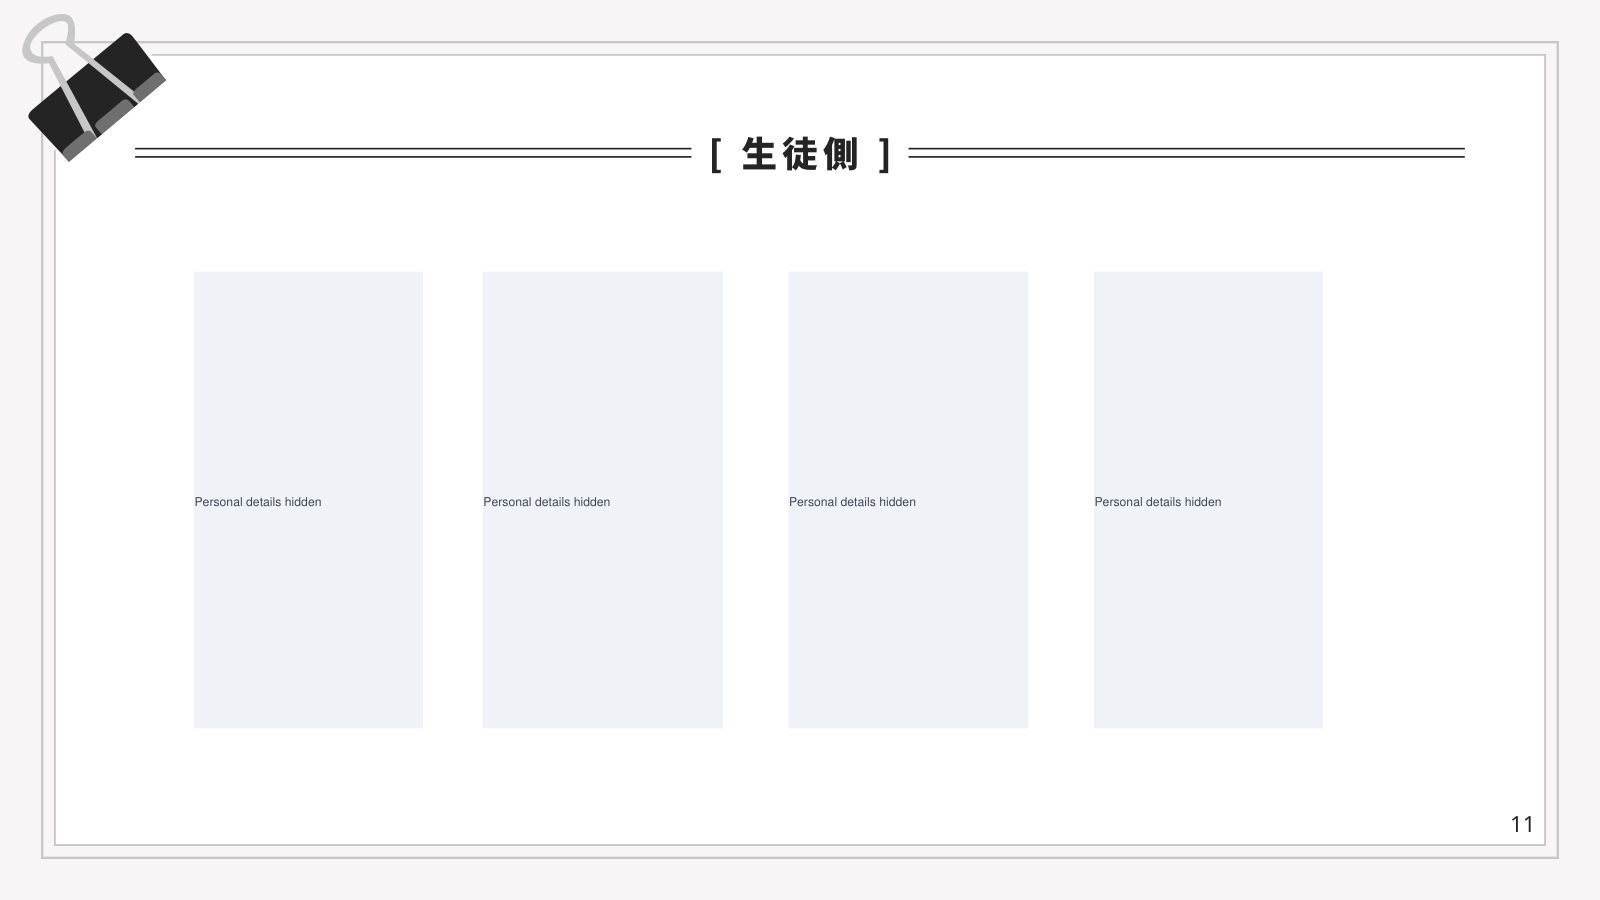
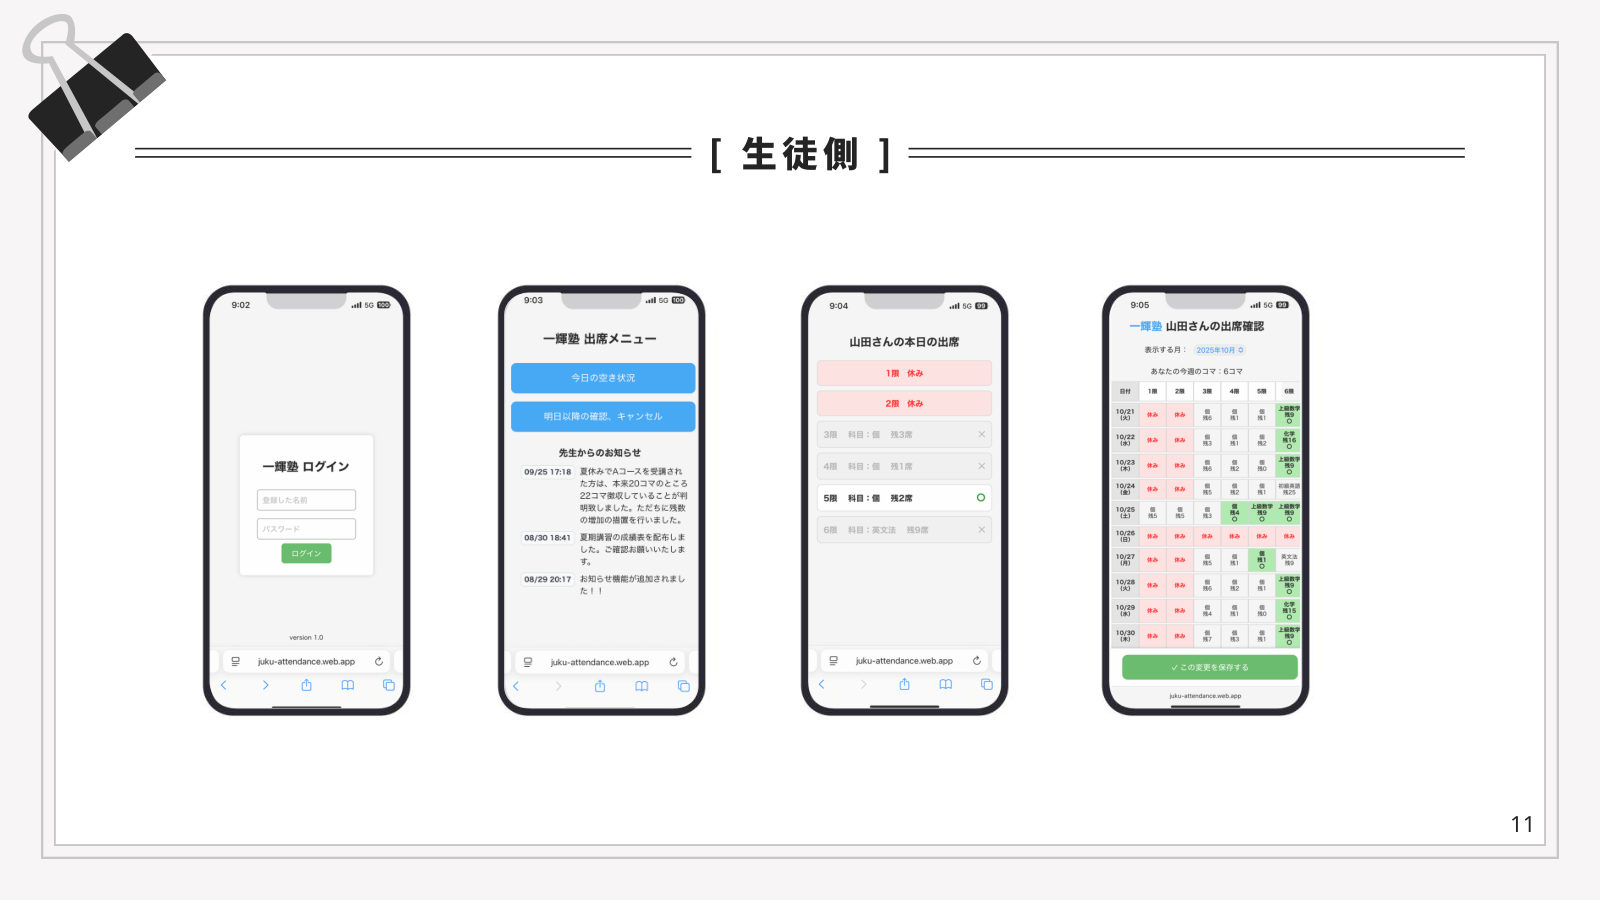
Restore unredacted presentation slides

diff --git a/src/app/slide-viewer.tsx b/src/app/slide-viewer.tsx
@@ -115,11 +115,6 @@ export function SlideViewer({
             {isJapanese ? "次へ" : "Next"}
           </button>
         </div>
-        <p className="px-4 pb-3 text-xs text-black/65 sm:px-6">
-          {isJapanese
-            ? "個人情報保護のため、一部の画面例を非表示にしています。"
-            : "Some app screenshots are hidden to protect personal information."}
-        </p>
       </dialog>
     </>
   );

diff --git a/scripts/prepare-slide-assets.py b/scripts/prepare-slide-assets.py
@@ -1,7 +1,6 @@
 """Render the two presentation PDFs as web slides without publishing the PDFs.
 
 Usage: python scripts/prepare-slide-assets.py HAYO_PDF ATTENDANCE_PDF
-Review the redaction rectangles whenever the source slides change.
 """
 
 from pathlib import Path
@@ -10,44 +9,10 @@ import sys
 import pymupdf
 
 
-DECKS = (
-    (
-        "hayo",
-        9,
-        {
-            # Slide 6 contains participants' faces, names, and locations in app screenshots.
-            5: [
-                (55, 185, 350, 765),
-                (380, 185, 670, 765),
-                (700, 185, 995, 765),
-                (1020, 185, 1365, 765),
-            ],
-        },
-    ),
-    (
-        "attendance",
-        17,
-        {
-            # Slides 11-12 contain actual student names in app screenshots.
-            10: [
-                (175, 245, 380, 655),
-                (435, 245, 650, 655),
-                (710, 245, 925, 655),
-                (985, 245, 1190, 655),
-            ],
-            11: [
-                (160, 175, 355, 390),
-                (390, 175, 815, 390),
-                (820, 165, 1290, 390),
-                (390, 445, 815, 635),
-                (820, 445, 1290, 635),
-            ],
-        },
-    ),
-)
+DECKS = (("hayo", 9), ("attendance", 17))
 
 
-def render_deck(name: str, expected_pages: int, redactions: dict, source: Path) -> None:
+def render_deck(name: str, expected_pages: int, source: Path) -> None:
     output = Path("public/slides") / name
     output.mkdir(parents=True, exist_ok=True)
 
@@ -58,18 +23,6 @@ def render_deck(name: str, expected_pages: int, redactions: dict, source: Path) 
         for index, page in enumerate(document):
             if abs(page.rect.width - 1440) > 1 or abs(page.rect.height - 810) > 1:
                 raise ValueError(f"{name} page {index + 1}: unexpected slide size")
-
-            for bounds in redactions.get(index, []):
-                page.add_redact_annot(
-                    pymupdf.Rect(bounds),
-                    text="Personal details hidden",
-                    fontname="helv",
-                    fontsize=11,
-                    fill=(0.94, 0.95, 0.97),
-                    text_color=(0.25, 0.29, 0.35),
-                )
-            if index in redactions:
-                page.apply_redactions(images=2)
 
             pixmap = page.get_pixmap(matrix=pymupdf.Matrix(1600 / 1440, 1600 / 1440), alpha=False)
             pixmap.save(output / f"{index + 1:02}.jpg", jpg_quality=82)
